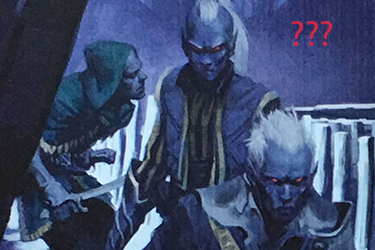
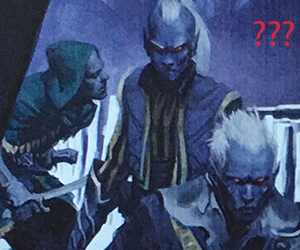
Reduced size of local area image to fit on mobile devices

diff --git a/index.html b/index.html
@@ -112,7 +112,7 @@
 			<h2>
 				Map of Local Area:
 			</h2>
-			<img alt="Local Area Map" height="250" src="Introduction2-web-resources/images/areas/unknownunderdark.png" width="375">
+			<img alt="Local Area Map" height="250" src="Introduction2-web-resources/images/areas/unknownunderdark.png" width="300">
 		</section>
 	</body>
 </html>
